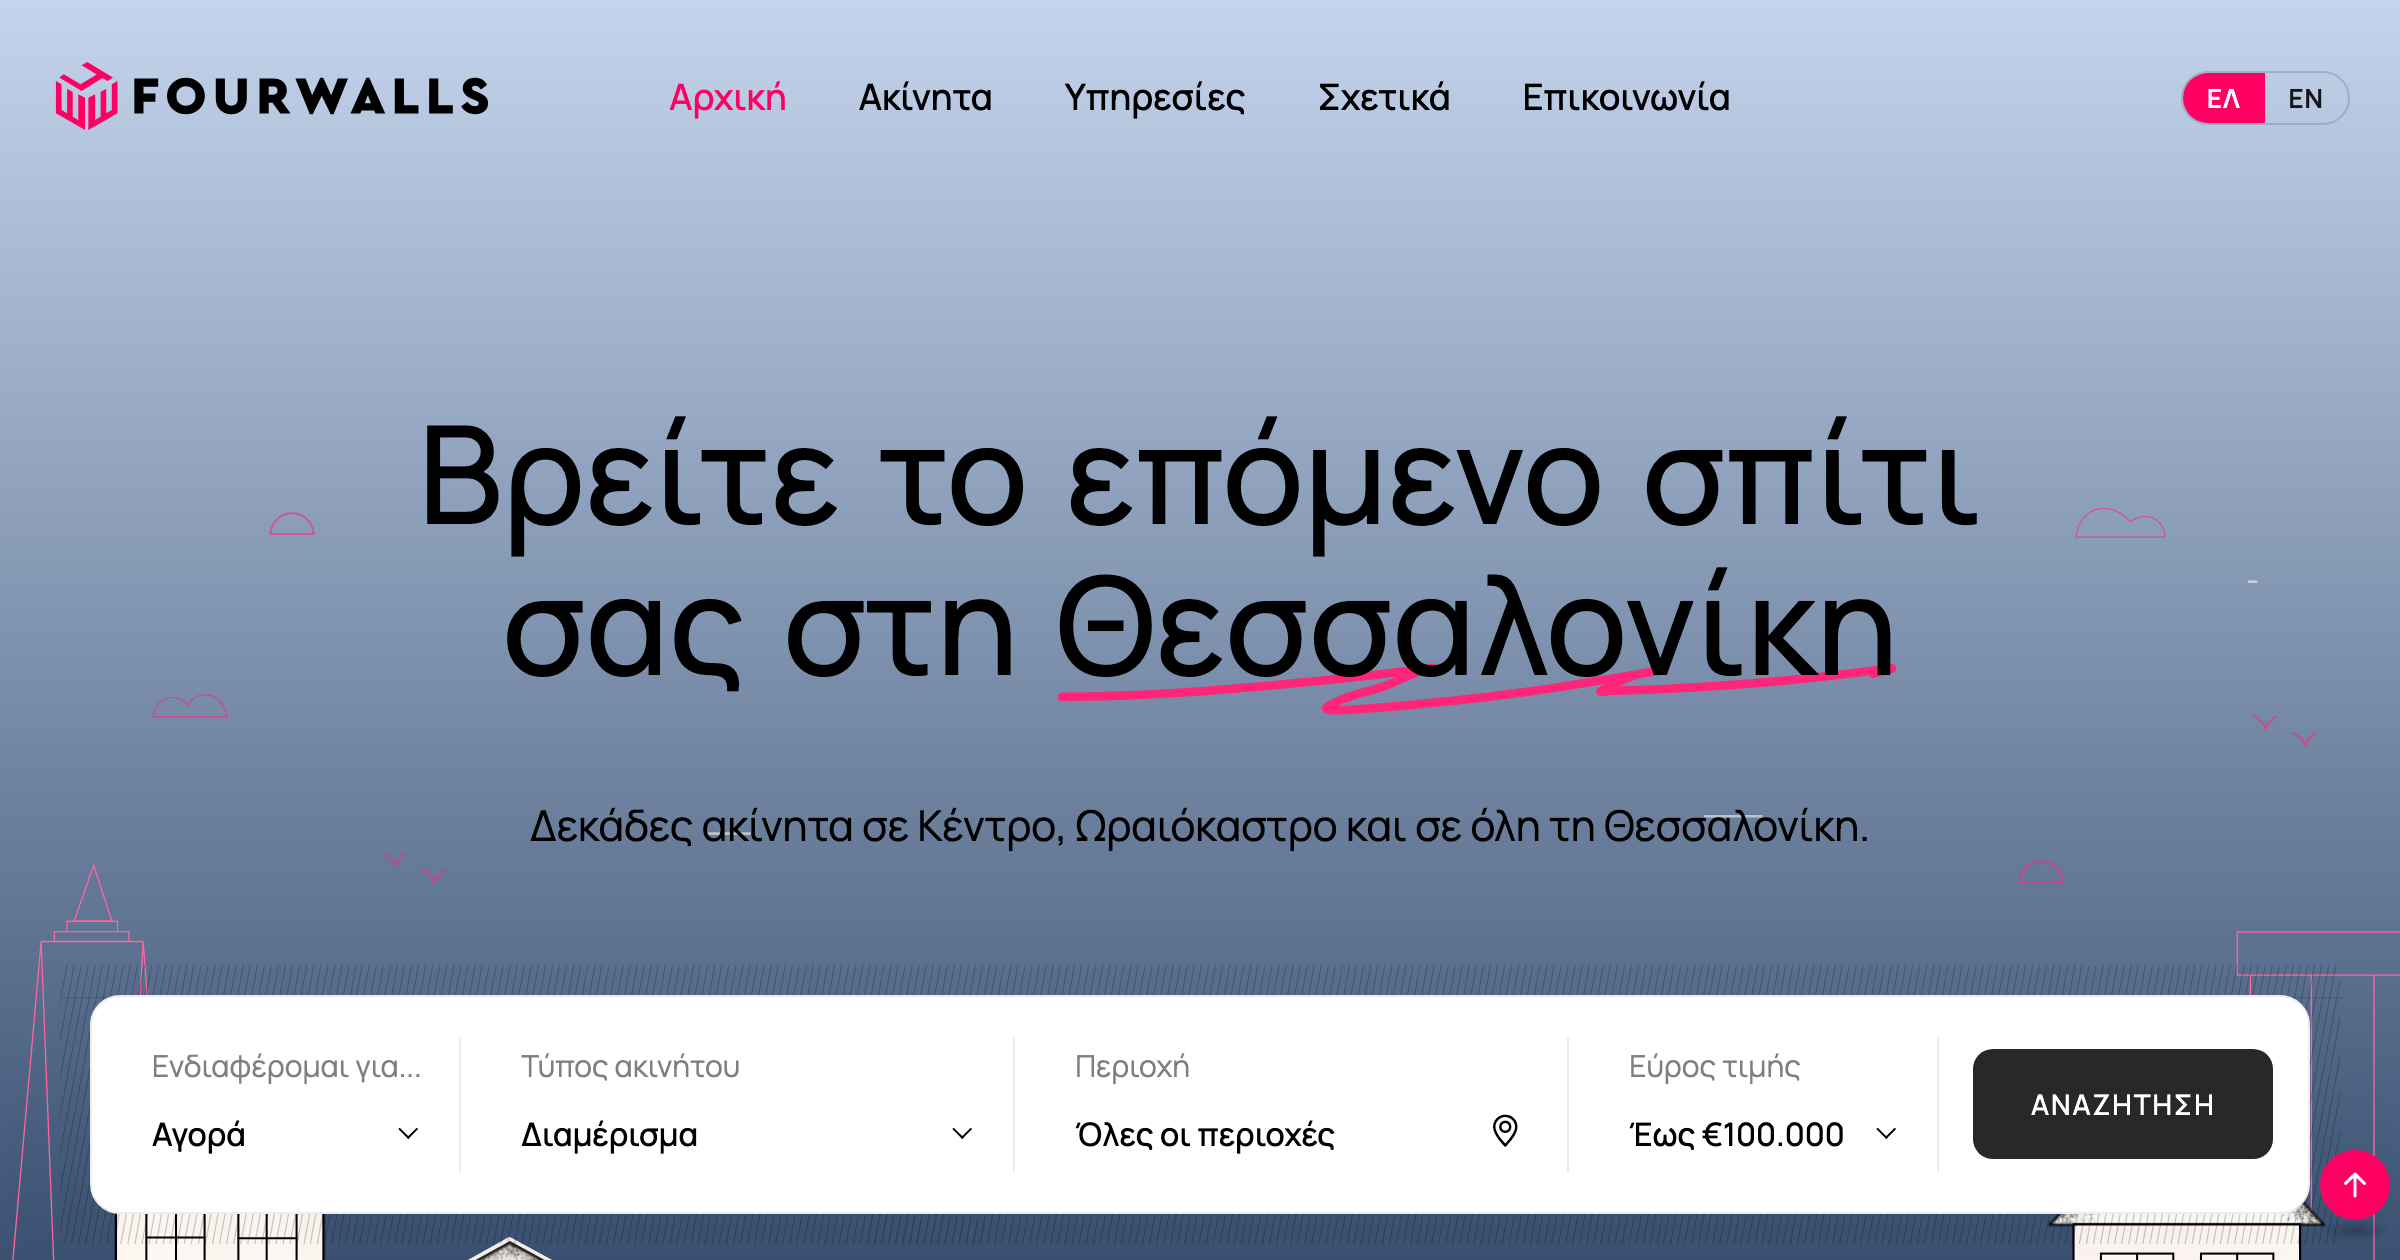
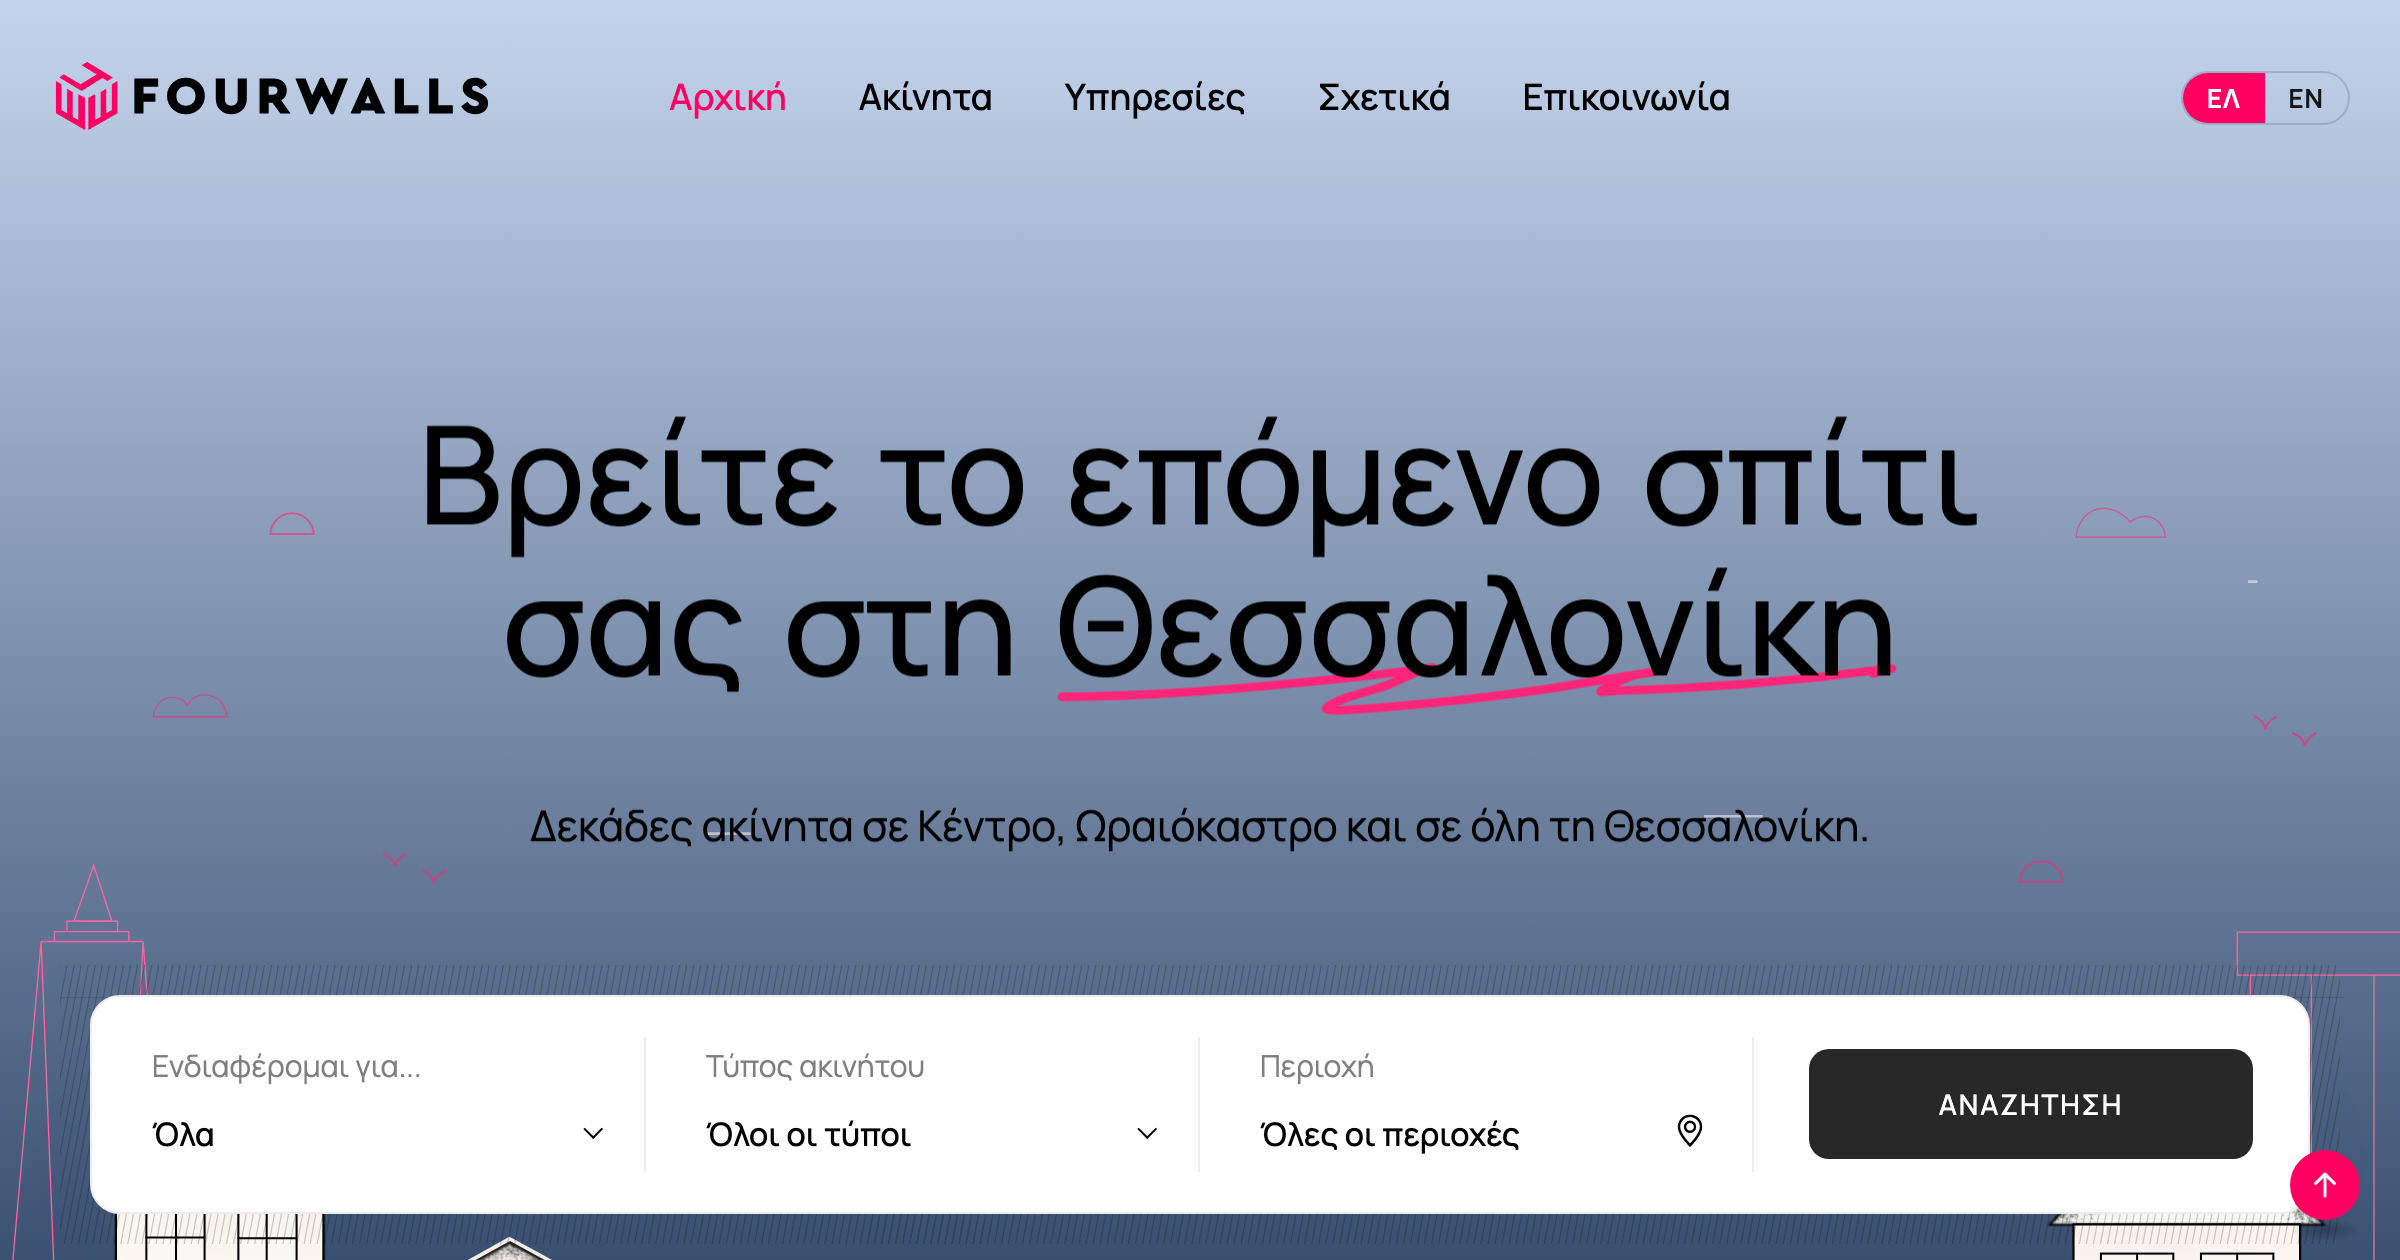
Update Open Graph and Twitter Card images across multiple pages with cache-busting versioning
- Added versioning to the Open Graph and Twitter Card image URLs in the following HTML files:
  - about.html
  - contact.html
  - cookies.html
  - faq.html
  - index.html
  - privacy-policy.html
  - properties.html
  - services.html
  - services/buying.html
  - services/property-management.html
  - services/renovation.html
  - services/renting.html
  - services/selling.html
  - services/valuation.html
  - terms-of-use.html
  - faq.html (Greek version)
  - index.html (Greek version)

- Updated the image file itself to ensure the latest version is served.
- Implemented a new outbound link tracking feature in the worker script to log email clicks and redirect users appropriately.

diff --git a/about.html b/about.html
@@ -16,11 +16,11 @@
 	<meta property="og:url" content="https://four-walls.gr/about">
 	<meta property="og:title" content="Σχετικά με εμάς · Four Walls Real Estate">
 	<meta property="og:description" content="Γνωρίστε τη Four Walls — μεσιτικό γραφείο στη Θεσσαλονίκη με προσωπική εξυπηρέτηση και διαφάνεια σε αγορά, πώληση, ενοικίαση και διαχείριση ακινήτων.">
-	<meta property="og:image" content="https://four-walls.gr/images/assets/og-home.fw.png">
+	<meta property="og:image" content="https://four-walls.gr/images/assets/og-home.fw.png?v=20260723">
 	<meta name="twitter:card" content="summary_large_image">
 	<meta name="twitter:title" content="Σχετικά με εμάς · Four Walls Real Estate">
 	<meta name="twitter:description" content="Γνωρίστε τη Four Walls — μεσιτικό γραφείο στη Θεσσαλονίκη με προσωπική εξυπηρέτηση και διαφάνεια σε αγορά, πώληση, ενοικίαση και διαχείριση ακινήτων.">
-	<meta name="twitter:image" content="https://four-walls.gr/images/assets/og-home.fw.png">
+	<meta name="twitter:image" content="https://four-walls.gr/images/assets/og-home.fw.png?v=20260723">
 	<!-- /FW:HEAD -->
 	<!-- For IE -->
 	<meta http-equiv="X-UA-Compatible" content="IE=edge">

diff --git a/contact.html b/contact.html
@@ -16,11 +16,11 @@
 	<meta property="og:url" content="https://four-walls.gr/contact">
 	<meta property="og:title" content="Επικοινωνία · Four Walls Real Estate">
 	<meta property="og:description" content="Επικοινωνήστε με τη Four Walls: Φραγκίνη 9, 54624 Θεσσαλονίκη · τηλ. [phone redacted] · [email redacted] · Δευτέρα–Παρασκευή 10:00–18:00.">
-	<meta property="og:image" content="https://four-walls.gr/images/assets/og-home.fw.png">
+	<meta property="og:image" content="https://four-walls.gr/images/assets/og-home.fw.png?v=20260723">
 	<meta name="twitter:card" content="summary_large_image">
 	<meta name="twitter:title" content="Επικοινωνία · Four Walls Real Estate">
 	<meta name="twitter:description" content="Επικοινωνήστε με τη Four Walls: Φραγκίνη 9, 54624 Θεσσαλονίκη · τηλ. [phone redacted] · [email redacted] · Δευτέρα–Παρασκευή 10:00–18:00.">
-	<meta name="twitter:image" content="https://four-walls.gr/images/assets/og-home.fw.png">
+	<meta name="twitter:image" content="https://four-walls.gr/images/assets/og-home.fw.png?v=20260723">
 	<!-- /FW:HEAD -->
 	<!-- For IE -->
 	<meta http-equiv="X-UA-Compatible" content="IE=edge">

diff --git a/cookies.html b/cookies.html
@@ -16,11 +16,11 @@
 	<meta property="og:url" content="https://four-walls.gr/cookies">
 	<meta property="og:title" content="Cookies · Four Walls Real Estate">
 	<meta property="og:description" content="Ενημέρωση για τα cookies στον ιστότοπο της Four Walls — ποια χρησιμοποιούνται και πώς να τα διαχειριστείτε.">
-	<meta property="og:image" content="https://four-walls.gr/images/assets/og-home.fw.png">
+	<meta property="og:image" content="https://four-walls.gr/images/assets/og-home.fw.png?v=20260723">
 	<meta name="twitter:card" content="summary_large_image">
 	<meta name="twitter:title" content="Cookies · Four Walls Real Estate">
 	<meta name="twitter:description" content="Ενημέρωση για τα cookies στον ιστότοπο της Four Walls — ποια χρησιμοποιούνται και πώς να τα διαχειριστείτε.">
-	<meta name="twitter:image" content="https://four-walls.gr/images/assets/og-home.fw.png">
+	<meta name="twitter:image" content="https://four-walls.gr/images/assets/og-home.fw.png?v=20260723">
 	<!-- /FW:HEAD -->
 	<!-- For IE -->
 	<meta http-equiv="X-UA-Compatible" content="IE=edge">

diff --git a/en/about.html b/en/about.html
@@ -17,11 +17,11 @@
 	<meta property="og:url" content="https://four-walls.gr/en/about">
 	<meta property="og:title" content="About Us · Four Walls Real Estate">
 	<meta property="og:description" content="Meet Four Walls — an estate agency in Thessaloniki, Greece, offering personal service and transparency in buying, selling, renting and property management.">
-	<meta property="og:image" content="https://four-walls.gr/images/assets/og-home.fw.png">
+	<meta property="og:image" content="https://four-walls.gr/images/assets/og-home.fw.png?v=20260723">
 	<meta name="twitter:card" content="summary_large_image">
 	<meta name="twitter:title" content="About Us · Four Walls Real Estate">
 	<meta name="twitter:description" content="Meet Four Walls — an estate agency in Thessaloniki, Greece, offering personal service and transparency in buying, selling, renting and property management.">
-	<meta name="twitter:image" content="https://four-walls.gr/images/assets/og-home.fw.png">
+	<meta name="twitter:image" content="https://four-walls.gr/images/assets/og-home.fw.png?v=20260723">
 	<!-- /FW:HEAD -->
 	<!-- For IE -->
 	<meta http-equiv="X-UA-Compatible" content="IE=edge">

diff --git a/en/contact.html b/en/contact.html
@@ -17,11 +17,11 @@
 	<meta property="og:url" content="https://four-walls.gr/en/contact">
 	<meta property="og:title" content="Contact · Four Walls Real Estate">
 	<meta property="og:description" content="Contact Four Walls: Fragkini 9, 54624 Thessaloniki, Greece · tel. [phone redacted] · [email redacted] · Monday–Friday 10:00–18:00.">
-	<meta property="og:image" content="https://four-walls.gr/images/assets/og-home.fw.png">
+	<meta property="og:image" content="https://four-walls.gr/images/assets/og-home.fw.png?v=20260723">
 	<meta name="twitter:card" content="summary_large_image">
 	<meta name="twitter:title" content="Contact · Four Walls Real Estate">
 	<meta name="twitter:description" content="Contact Four Walls: Fragkini 9, 54624 Thessaloniki, Greece · tel. [phone redacted] · [email redacted] · Monday–Friday 10:00–18:00.">
-	<meta name="twitter:image" content="https://four-walls.gr/images/assets/og-home.fw.png">
+	<meta name="twitter:image" content="https://four-walls.gr/images/assets/og-home.fw.png?v=20260723">
 	<!-- /FW:HEAD -->
 	<!-- For IE -->
 	<meta http-equiv="X-UA-Compatible" content="IE=edge">

diff --git a/en/cookies.html b/en/cookies.html
@@ -17,11 +17,11 @@
 	<meta property="og:url" content="https://four-walls.gr/en/cookies">
 	<meta property="og:title" content="Cookies · Four Walls Real Estate">
 	<meta property="og:description" content="How the Four Walls website uses cookies — which ones are set and how to manage them.">
-	<meta property="og:image" content="https://four-walls.gr/images/assets/og-home.fw.png">
+	<meta property="og:image" content="https://four-walls.gr/images/assets/og-home.fw.png?v=20260723">
 	<meta name="twitter:card" content="summary_large_image">
 	<meta name="twitter:title" content="Cookies · Four Walls Real Estate">
 	<meta name="twitter:description" content="How the Four Walls website uses cookies — which ones are set and how to manage them.">
-	<meta name="twitter:image" content="https://four-walls.gr/images/assets/og-home.fw.png">
+	<meta name="twitter:image" content="https://four-walls.gr/images/assets/og-home.fw.png?v=20260723">
 	<!-- /FW:HEAD -->
 	<!-- For IE -->
 	<meta http-equiv="X-UA-Compatible" content="IE=edge">

diff --git a/en/faq.html b/en/faq.html
@@ -17,11 +17,11 @@
 	<meta property="og:url" content="https://four-walls.gr/en/faq">
 	<meta property="og:title" content="Frequently Asked Questions · Four Walls Real Estate">
 	<meta property="og:description" content="Answers to the most common questions about buying, selling, renting and property valuation in Thessaloniki, from Four Walls.">
-	<meta property="og:image" content="https://four-walls.gr/images/assets/og-home.fw.png">
+	<meta property="og:image" content="https://four-walls.gr/images/assets/og-home.fw.png?v=20260723">
 	<meta name="twitter:card" content="summary_large_image">
 	<meta name="twitter:title" content="Frequently Asked Questions · Four Walls Real Estate">
 	<meta name="twitter:description" content="Answers to the most common questions about buying, selling, renting and property valuation in Thessaloniki, from Four Walls.">
-	<meta name="twitter:image" content="https://four-walls.gr/images/assets/og-home.fw.png">
+	<meta name="twitter:image" content="https://four-walls.gr/images/assets/og-home.fw.png?v=20260723">
 	<!-- /FW:HEAD -->
 	<!-- For IE -->
 	<meta http-equiv="X-UA-Compatible" content="IE=edge">

diff --git a/en/index.html b/en/index.html
@@ -17,11 +17,11 @@
 	<meta property="og:url" content="https://four-walls.gr/en/">
 	<meta property="og:title" content="Four Walls Real Estate · Estate Agency in Thessaloniki, Greece">
 	<meta property="og:description" content="Four Walls Real Estate — estate agency in Thessaloniki, Greece. Buying, selling, renting, property valuation and property management.">
-	<meta property="og:image" content="https://four-walls.gr/images/assets/og-home.fw.png">
+	<meta property="og:image" content="https://four-walls.gr/images/assets/og-home.fw.png?v=20260723">
 	<meta name="twitter:card" content="summary_large_image">
 	<meta name="twitter:title" content="Four Walls Real Estate · Estate Agency in Thessaloniki, Greece">
 	<meta name="twitter:description" content="Four Walls Real Estate — estate agency in Thessaloniki, Greece. Buying, selling, renting, property valuation and property management.">
-	<meta name="twitter:image" content="https://four-walls.gr/images/assets/og-home.fw.png">
+	<meta name="twitter:image" content="https://four-walls.gr/images/assets/og-home.fw.png?v=20260723">
 	<!-- /FW:HEAD -->
 	<!-- For IE -->
 	<meta http-equiv="X-UA-Compatible" content="IE=edge">

diff --git a/en/privacy-policy.html b/en/privacy-policy.html
@@ -17,11 +17,11 @@
 	<meta property="og:url" content="https://four-walls.gr/en/privacy-policy">
 	<meta property="og:title" content="Privacy Policy · Four Walls Real Estate">
 	<meta property="og:description" content="How Four Walls collects and protects your personal data, in line with the GDPR.">
-	<meta property="og:image" content="https://four-walls.gr/images/assets/og-home.fw.png">
+	<meta property="og:image" content="https://four-walls.gr/images/assets/og-home.fw.png?v=20260723">
 	<meta name="twitter:card" content="summary_large_image">
 	<meta name="twitter:title" content="Privacy Policy · Four Walls Real Estate">
 	<meta name="twitter:description" content="How Four Walls collects and protects your personal data, in line with the GDPR.">
-	<meta name="twitter:image" content="https://four-walls.gr/images/assets/og-home.fw.png">
+	<meta name="twitter:image" content="https://four-walls.gr/images/assets/og-home.fw.png?v=20260723">
 	<!-- /FW:HEAD -->
 	<!-- For IE -->
 	<meta http-equiv="X-UA-Compatible" content="IE=edge">

diff --git a/en/properties.html b/en/properties.html
@@ -17,11 +17,11 @@
 	<meta property="og:url" content="https://four-walls.gr/en/properties">
 	<meta property="og:title" content="Properties for Sale &amp; Rent in Thessaloniki | Four Walls">
 	<meta property="og:description" content="Browse all available Four Walls properties in Thessaloniki — apartments, houses, commercial spaces and plots of land, for sale or to rent.">
-	<meta property="og:image" content="https://four-walls.gr/images/assets/og-home.fw.png">
+	<meta property="og:image" content="https://four-walls.gr/images/assets/og-home.fw.png?v=20260723">
 	<meta name="twitter:card" content="summary_large_image">
 	<meta name="twitter:title" content="Properties for Sale &amp; Rent in Thessaloniki | Four Walls">
 	<meta name="twitter:description" content="Browse all available Four Walls properties in Thessaloniki — apartments, houses, commercial spaces and plots of land, for sale or to rent.">
-	<meta name="twitter:image" content="https://four-walls.gr/images/assets/og-home.fw.png">
+	<meta name="twitter:image" content="https://four-walls.gr/images/assets/og-home.fw.png?v=20260723">
 	<!-- /FW:HEAD -->
 	<!-- For IE -->
 	<meta http-equiv="X-UA-Compatible" content="IE=edge">

diff --git a/en/services.html b/en/services.html
@@ -17,11 +17,11 @@
 	<meta property="og:url" content="https://four-walls.gr/en/services">
 	<meta property="og:title" content="Services · Four Walls Real Estate">
 	<meta property="og:description" content="Four Walls services in Thessaloniki: buying, selling, renting, valuation, renovation and property management — with you at every step.">
-	<meta property="og:image" content="https://four-walls.gr/images/assets/og-home.fw.png">
+	<meta property="og:image" content="https://four-walls.gr/images/assets/og-home.fw.png?v=20260723">
 	<meta name="twitter:card" content="summary_large_image">
 	<meta name="twitter:title" content="Services · Four Walls Real Estate">
 	<meta name="twitter:description" content="Four Walls services in Thessaloniki: buying, selling, renting, valuation, renovation and property management — with you at every step.">
-	<meta name="twitter:image" content="https://four-walls.gr/images/assets/og-home.fw.png">
+	<meta name="twitter:image" content="https://four-walls.gr/images/assets/og-home.fw.png?v=20260723">
 	<!-- /FW:HEAD -->
 	<!-- For IE -->
 	<meta http-equiv="X-UA-Compatible" content="IE=edge">

diff --git a/en/services/buying.html b/en/services/buying.html
@@ -19,11 +19,11 @@
 	<meta property="og:url" content="https://four-walls.gr/en/services/buying">
 	<meta property="og:title" content="Buying a Property · Four Walls Real Estate">
 	<meta property="og:description" content="Buy property in Thessaloniki with Four Walls — tailored search, accompanied viewings, negotiation and support all the way to contract.">
-	<meta property="og:image" content="https://four-walls.gr/images/assets/og-home.fw.png">
+	<meta property="og:image" content="https://four-walls.gr/images/assets/og-home.fw.png?v=20260723">
 	<meta name="twitter:card" content="summary_large_image">
 	<meta name="twitter:title" content="Buying a Property · Four Walls Real Estate">
 	<meta name="twitter:description" content="Buy property in Thessaloniki with Four Walls — tailored search, accompanied viewings, negotiation and support all the way to contract.">
-	<meta name="twitter:image" content="https://four-walls.gr/images/assets/og-home.fw.png">
+	<meta name="twitter:image" content="https://four-walls.gr/images/assets/og-home.fw.png?v=20260723">
 	<!-- /FW:HEAD -->
 	<!-- For IE -->
 	<meta http-equiv="X-UA-Compatible" content="IE=edge">